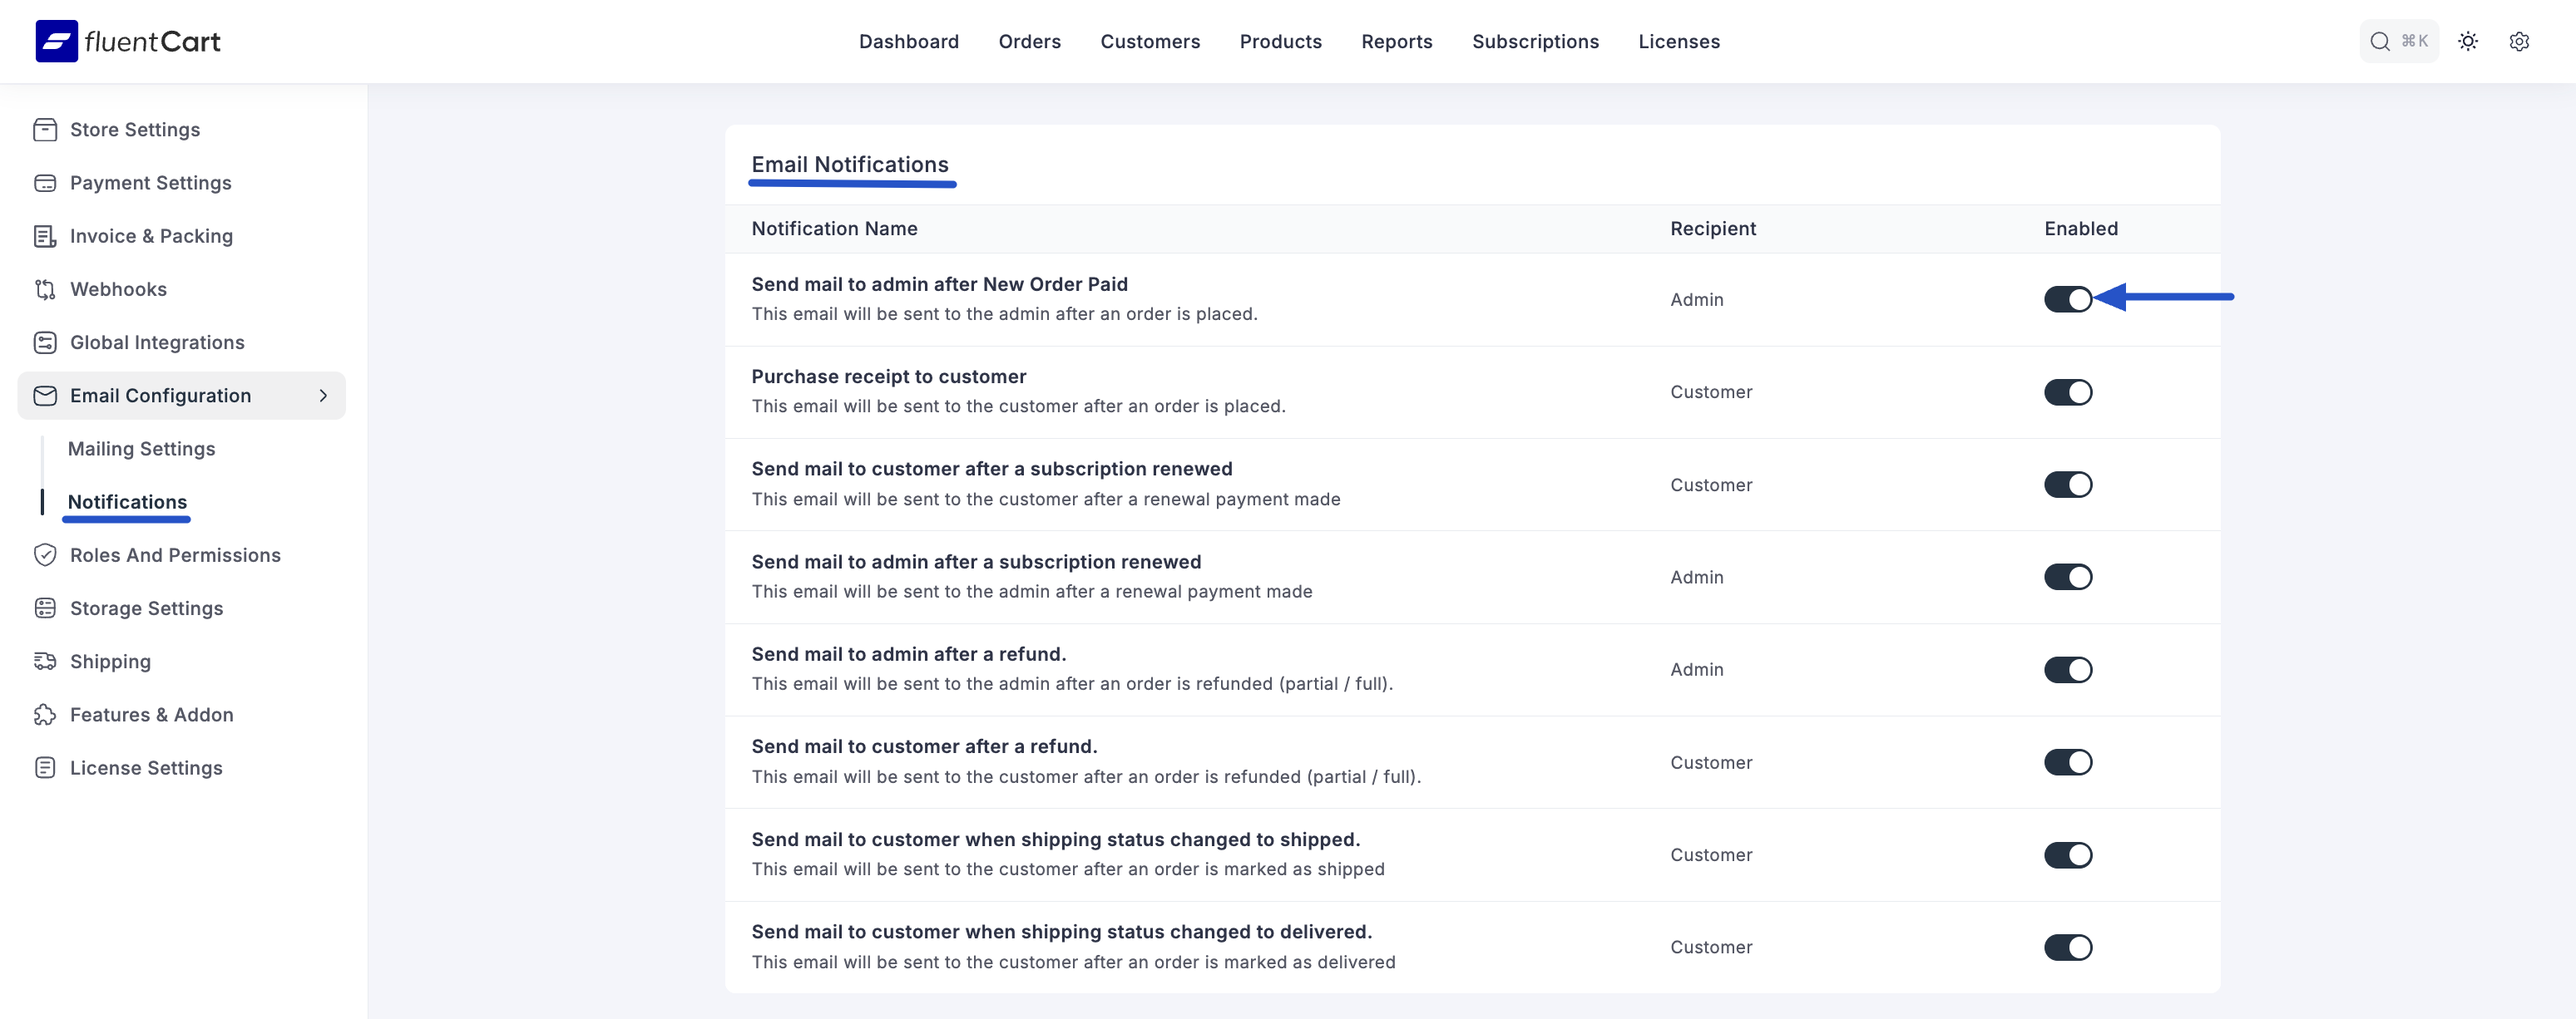
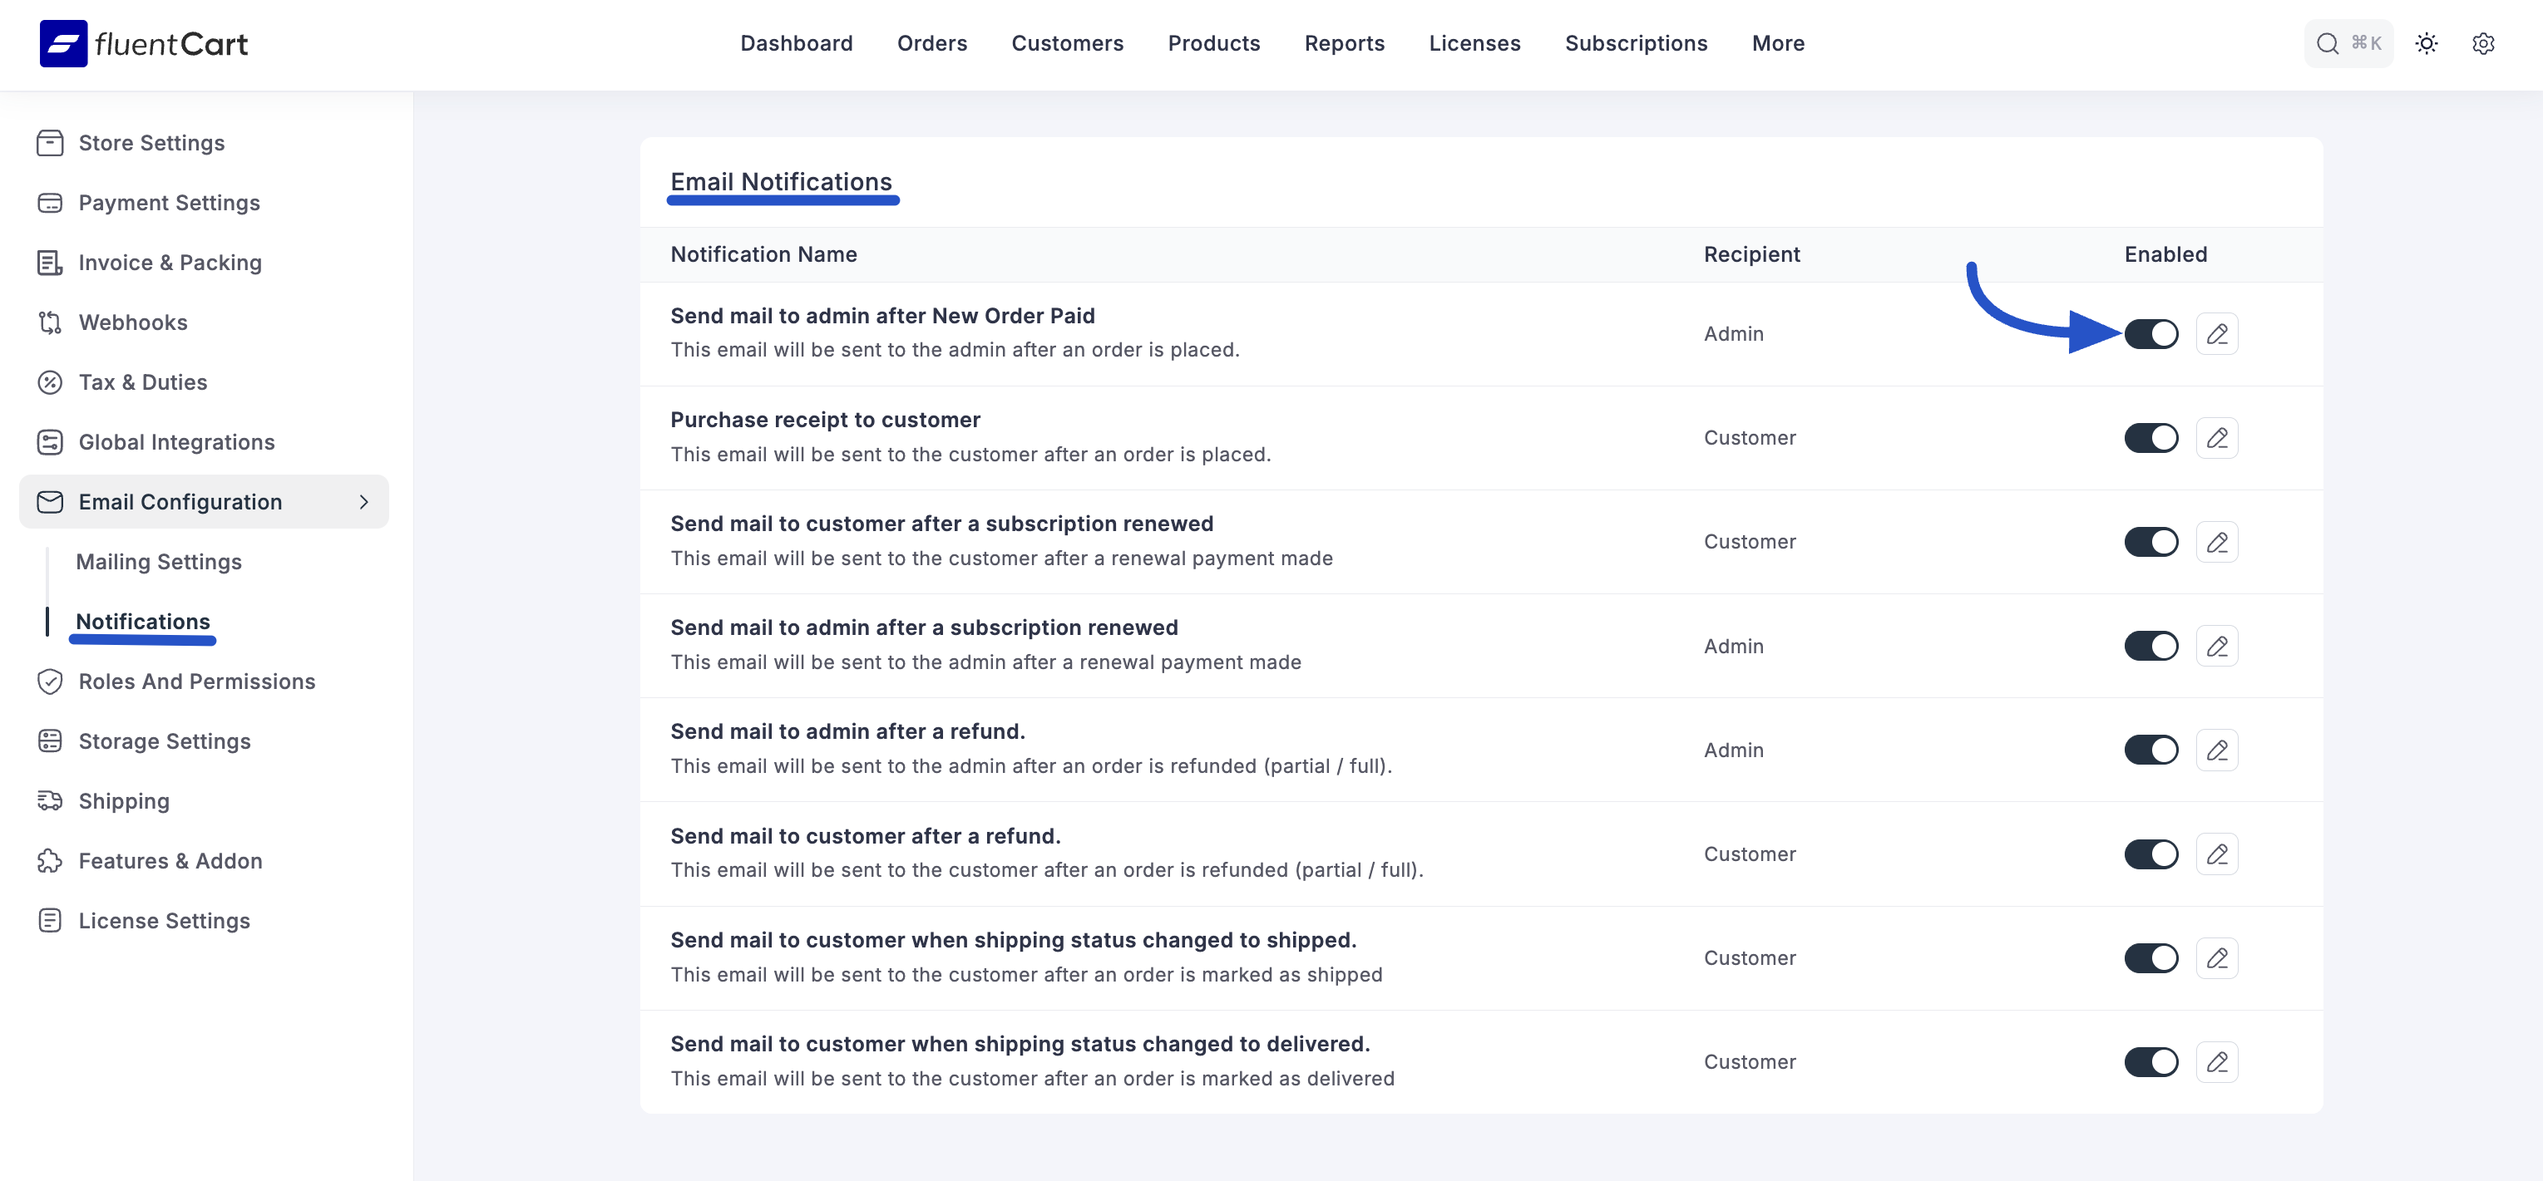
Updated Email Notification Doc

diff --git a/guide/settings-configuration/email-configuration/configuring-email-notification.md b/guide/settings-configuration/email-configuration/configuring-email-notification.md
@@ -1,22 +1,22 @@
 # Configuring Email Notifications
 
-The **Notifications** section in FluentCart is where you manage all the automated transactional emails that are sent to both your customers and store administrators. Keeping your customers informed about their order status is crucial for a professional e-commerce experience.
+The **Notifications** section in FluentCart is where you manage all the automated transactional emails sent to both your customers and store administrators. Keeping everyone informed about order activity is crucial for a professional e-commerce experience and efficient store management.
 
-This guide will walk you through how to manage, edit, and customize these important email notifications.
+This guide will walk you through how to enable, disable, and customize these important email notifications.
 
-#### Step 1: Navigate to the Notifications Screen
+---
 
-1.  From your WordPress dashboard, navigate to **FluentCart Pro > Settings**.
+### Accessing the Notifications Screen
+
+1.  From your WordPress dashboard, navigate to **FluentCart Pro** > **Settings**.
 2.  Click on the **Email Configuration** tab.
 3.  From the sub-menu, select **Notifications**.
 
-#### Step 2: Manage Your Notifications
+### Managing Your Notifications
 
-On this screen, you will see a list of all available email notifications.
+On this screen, you will see a list of all available email notifications. For each one, you can see its **Notification Name**, the intended **Recipient** (Admin or Customer), and a toggle to enable or disable it.
 
-**Available Notifications**
-
-Here is a list of the default email notifications that you can manage within FluentCart:
+#### Available Notifications:
 
 * **Send mail to admin after New Order Paid:** Notifies the store admin when a new order has been successfully paid for.
 * **Purchase receipt to customer:** Sends a receipt to the customer immediately after their order is placed.
@@ -27,13 +27,38 @@ Here is a list of the default email notifications that you can manage within Flu
 * **Send mail to customer when shipping status changed to shipped:** Informs the customer that their physical order has been shipped.
 * **Send mail to customer when shipping status changed to delivered:** Confirms to the customer that their order has been marked as delivered.
 
+#### Enabling or Disabling Notifications
 
-For each notification in the list, you can see its **Name**, the intended **Recipient** (Admin or Customer), and toggle options on the right:
-
-* **Enable/Disable Toggle:** Use this switch to quickly activate or deactivate any notification. The email will only be sent if the toggle is enabled.
+To quickly activate or deactivate any notification, simply click the **toggle switch** in the "Enabled" column. The email will only be sent if the toggle is on.
 
 ![Email Notification](/images/settings-configuration/email-notifications/email-notification-1.png)
 
-#### Step 4: Save Your Changes
 
-Once you are finished editing the notification, click the **Update** button to save your changes. Your customized email will now be sent whenever its corresponding event is triggered.
+### Customizing an Email Notification
+
+To customize the content of a specific email, click the **pencil icon** on the right-hand side of its row. This will take you to the editor for that specific email template.
+
+* **Enable this email notification!** This toggle at the top right serves the same purpose as the one on the main list, allowing you to activate or deactivate the email from within the editor.
+
+#### Email Subject
+
+This field controls the subject line of the email. You can personalize it by clicking the **shortcode icon {;}** on the right to insert dynamic information, such as the customer's name or the order ID.
+
+#### Email Body Type
+
+You have two options for the email's main content:
+
+* **Default Body:** This is the standard, pre-written email content provided by FluentCart. It contains all the essential information for that specific notification and is ready to use out of the box.
+* **Customized Body:** Select this option to take full control over the email's content. This is perfect for matching the email's design and tone to your brand's voice.
+
+#### Customizing the Email Body
+
+If you select **Customized Body**, a full rich text editor will appear.
+
+* **Content Editor:** Use the editor to write your own text, apply formatting (like bold, italics, and lists), and structure the email exactly as you want it.
+* **Shortcodes:** Just like with the subject line, you can use the **shortcode icon {;}** above the editor to insert dynamic placeholders for order, customer, and general store details. This allows you to create highly personalized and informative emails.
+* **Visual/Code View:** You can switch between the **Visual** editor and the **Code** editor (for HTML) to achieve more advanced customizations.
+
+![Email Notification Customization](/images/settings-configuration/email-notifications/email-notification-body.png)
+
+Once you are finished editing, click the **Update** button to save your changes. Your customized email will now be sent whenever its corresponding event is triggered.
